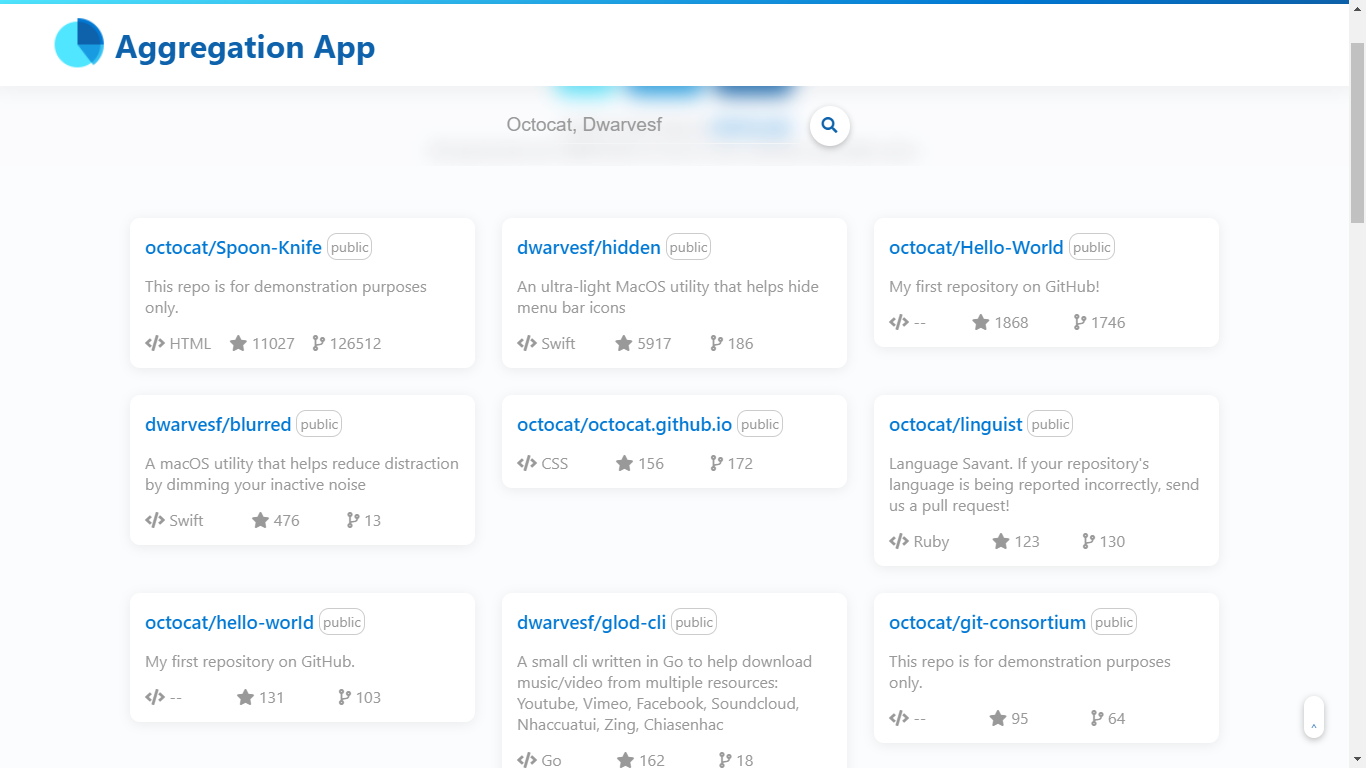
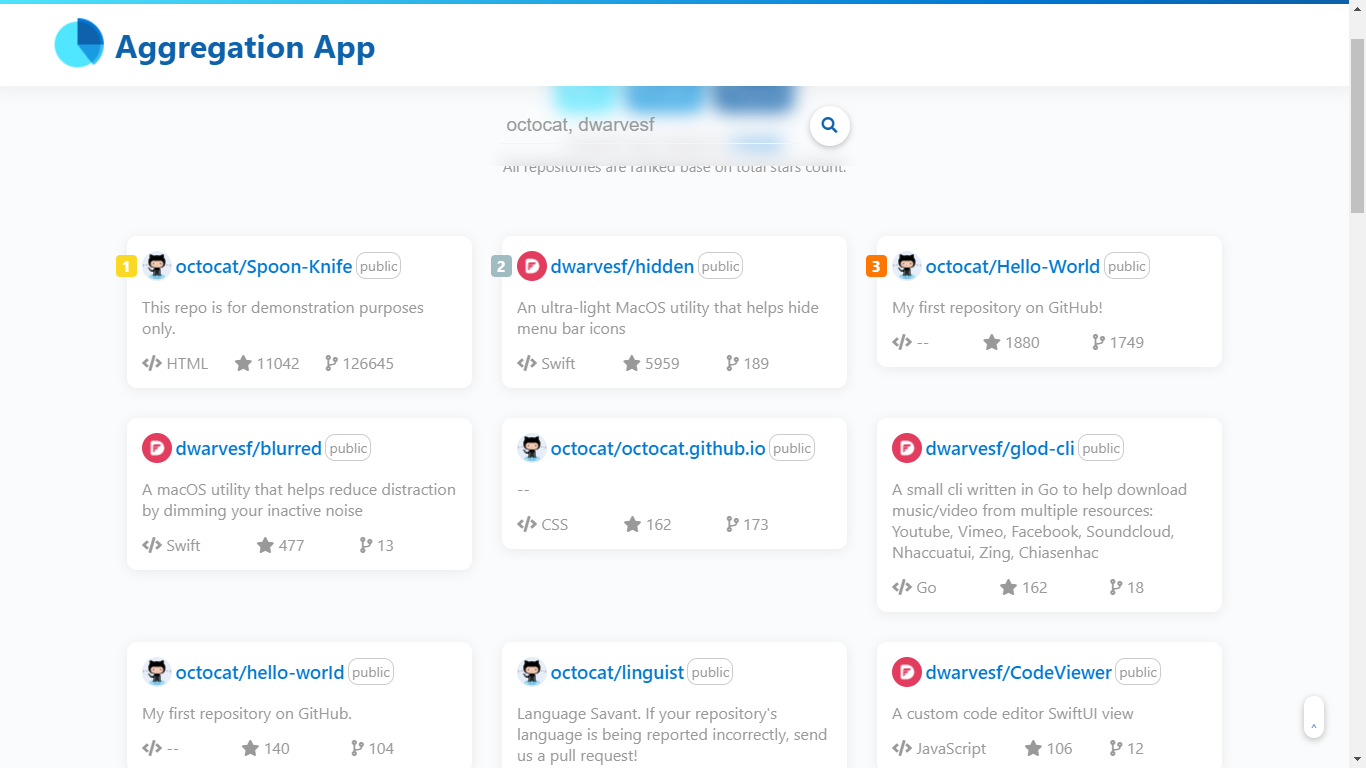
Update UI & ranking

diff --git a/src/App.css b/src/App.css
@@ -155,21 +155,21 @@ body{
 }
 
 @keyframes spin{
-  0%{transform: rotate(0deg);}
-  3%{transform: rotate(-15deg);}
-  6%{transform: rotate(-20deg);}
-  9%{transform: rotate(-23deg);}
-  12%{transform: rotate(-24deg);}
-  15%{transform: rotate(-20deg);}
-  30%{transform: rotate(360deg);}
-  33%{transform: rotate(375deg);}
-  36%{transform: rotate(380deg);}
-  39%{transform: rotate(383deg);}
-  42%{transform: rotate(384deg);}
-  45%{transform: rotate(380deg);}
+	0%{transform: rotate(0deg);}
+	3%{transform: rotate(-15deg);}
+	6%{transform: rotate(-20deg);}
+	9%{transform: rotate(-23deg);}
+	12%{transform: rotate(-24deg);}
+	15%{transform: rotate(-20deg);}
+	30%{transform: rotate(360deg);}
+	33%{transform: rotate(375deg);}
+	36%{transform: rotate(380deg);}
+	39%{transform: rotate(383deg);}
+	42%{transform: rotate(384deg);}
+	45%{transform: rotate(380deg);}
   50%{transform: rotate(360deg);}
 
-  100%{transform: rotate(360deg);}
+	100%{transform: rotate(360deg);}
 }
 
 .content{
@@ -187,6 +187,33 @@ body{
   display: flex;
   justify-content: center;
   flex-wrap: wrap;
+}
+
+.repo-item:nth-child(-n+3) .repo-title::after{
+  position: absolute;
+  padding: 1px 6px;
+  font-size: 15px;
+  margin: 0 0 0 -26px;
+  border-radius: 4px;
+  font-weight: bold;
+}
+
+.repo-item:first-child .repo-title::after{
+  content: "1";
+  color: #FFF;
+  background-color: #F9D923;
+}
+
+.repo-item:nth-child(2) .repo-title::after{
+  content: "2";
+  color: #FFF;
+  background-color: #A0BCC2;
+}
+
+.repo-item:nth-child(3) .repo-title::after{
+  content: "3";
+  color: #FFF;
+  background-color: #FF7700;
 }
 
 .repo-item{
@@ -213,8 +240,12 @@ body{
   word-break: break-all;
   text-align: left;
 }
+.repo-title img{
+  height: 30px;
+  border-radius: 50%;
+}
 .repo-title h3{
-  margin: 0 5px 0 0;
+  margin: 0 3.5px 0 3.5px;
 }
 .repo-title a{
   color: #0078D4;
@@ -230,8 +261,12 @@ body{
 }
 
 .repo-description{
-  margin: 15px 0;
+  margin: 15px 0 14px;
   text-align: left;
+}
+
+.repo-item:hover > .repo-description{
+  opacity: 0;
 }
 
 .repo-overview{
@@ -244,11 +279,11 @@ body{
   width: 345px;
   box-sizing: border-box;
   display: none;
-  position: absolute;
-  z-index: 3;
+	position: absolute;
+  z-index: 1;
   box-shadow: 0 3px 13px #00000012;
-  border-radius: 10px;
-  padding: 15px;
+	border-radius: 10px;
+	padding: 15px;
   margin: 0px 0 0 -15px;
   background-color: #FAFBFC22;
   backdrop-filter: blur(7px);
@@ -257,7 +292,7 @@ body{
 
 .modal > div:nth-child(1){
   text-align: left;
-  margin-bottom: 5px;
+  margin-bottom: 12px;
 }
 
 .modal > div:nth-child(2){
@@ -359,6 +394,10 @@ body{
   .content{
     padding: 20px;
     font-size: 15px;
+  }
+
+  .repo-title img{
+    height: 25px;
   }
 
   .repo-item{

diff --git a/src/components/ReposComponent.js b/src/components/ReposComponent.js
@@ -222,15 +222,17 @@ export default class UserReposComponent extends Component {
         var isFork = org["fork"];
         var type = org["owner"]["type"];
         var issues = org["open_issues"];
+        var avatar = org["owner"]["avatar_url"];
 
         return(
           <div key={org["id"]} className="repo-item">
             <div className="repo-title">
+              <img src={avatar}/>
               <h3><a href={url} target="_blank">{owner}/{reponame}</a></h3>
               <span>{visibility}</span>
             </div>
             <div className="modal">
-              <div>{description}</div>
+              <div>{(description == null)? "--":description}</div>
               <div>
                 <div>
                   <div><i className="fas fa-user"></i> {type}</div>
@@ -244,7 +246,7 @@ export default class UserReposComponent extends Component {
                 </div>
               </div>
             </div>
-            <div className="repo-description">{description}</div>
+            <div className="repo-description">{(description == null)? "--":description}</div>
             <div className="repo-overview">
               <div><i className="fas fa-code"></i> {language}</div>
               <div><i className="fas fa-star"></i> {stars}</div>
